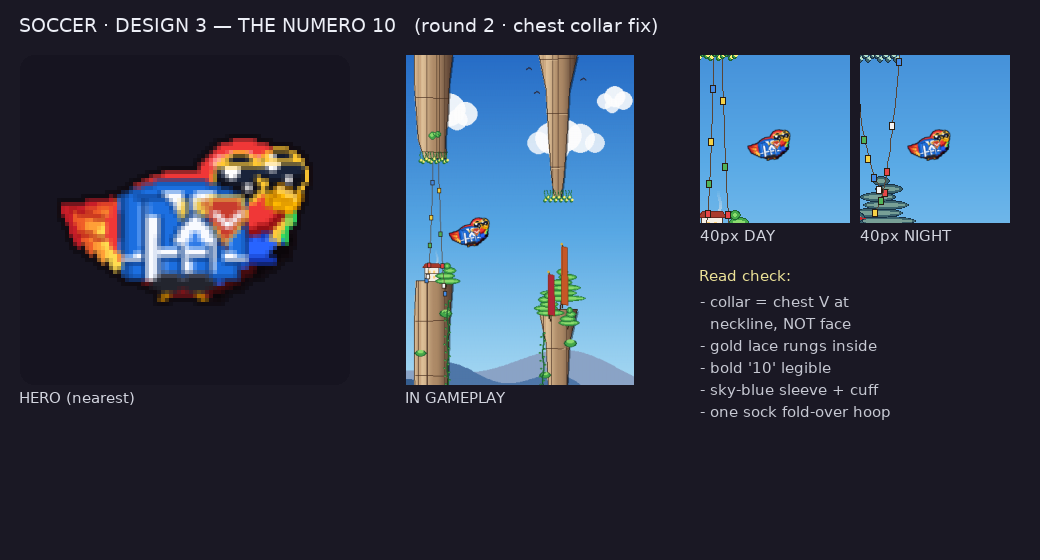
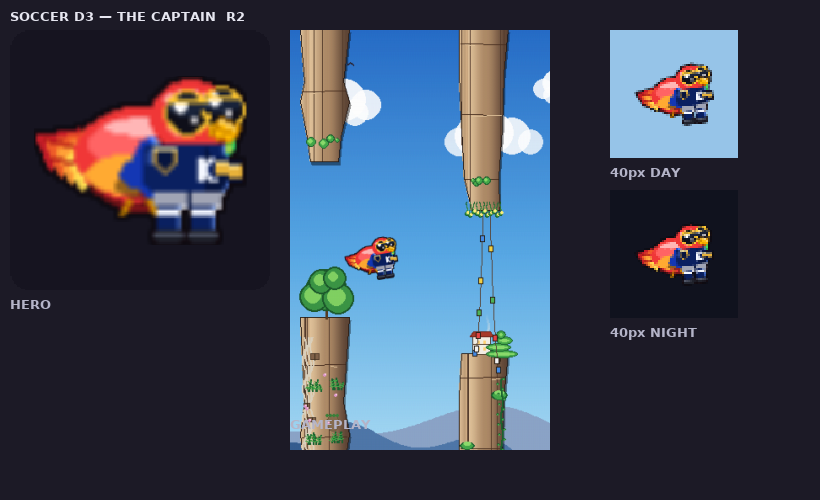
Soccer D3 Captain R2: armband gold+upper, navy rim-light, grey shorts
Claude-Session: https://claude.ai/code/session_01HafGQfRZVDiGkQqpJPr5Cm

diff --git a/tools/soccer_candidates/design_3.py b/tools/soccer_candidates/design_3.py
@@ -2,19 +2,21 @@
 
 Scratch exploration only — NOT registered in store_skins.BUILDERS, so
 production is untouched. Pip the scarlet macaw kitted as the side's captain:
-a classic deep-NAVY jersey with a white V-collar at the chest neckline, a
-white squad NUMBER on the chest, a small gold team CREST on the upper-left
-chest, and — the hero tell — a bright white CAPTAIN'S ARMBAND wrapped around
-the near (forward-right) wing. White shorts hem, tall navy socks with a white
-hoop, and low dark boots finish the kit. No ball, no headgear — the crown
-stays the open macaw so Pip still reads as a parrot, and NOTHING covers the
-beak/eye/face.
+a classic deep-NAVY jersey, a white squad NUMBER on the chest, a small gold
+team CREST left of it, and — the hero tell — a bright GOLD CAPTAIN'S ARMBAND
+high on the near (forward) shoulder. Mid-grey shorts with a white hem, tall
+navy socks with a white hoop, and low dark boots finish the kit. No ball, no
+headgear — the crown stays the open macaw so Pip still reads as a parrot, and
+NOTHING covers the beak/eye/face.
 
 The jersey reuses the EXACT baseball-jersey polygon anchored on HX,HY (top at
 HY+8, hem at HY+23) so the kit sits centred on the torso, never riding up onto
 the face or off to the side. The armband is the one cue that must survive the
-40px downscale: a 4px bright white band on the dark navy sleeve, the single
-brightest mark in the costume, so "captain" reads at hero scale.
+40px downscale: a 4px GOLD band isolated by dark-navy gap pixels high on the
+shoulder, the single brightest, loudest mark in the costume, so "captain"
+reads at hero scale. Pure white is reserved for the number + shorts hem so the
+gold band always wins the eye; a bright navy rim-light keeps the kit from
+dissolving into the night sky.
 """
 import pygame
 
@@ -25,13 +27,14 @@ from game.store_skins import HX, HY, _poly
 # Classic deep-navy kit. Three cloth values so the collar, number and crest
 # still separate from the jersey field after the 40px downscale.
 _CAP_NAVY    = (10, 32, 96)         # #0A2060 jersey deep navy (cloth mid)
-_CAP_NAVY_D  = (6, 20, 62)          # cloth shadow / seams / off-side
+_CAP_NAVY_D  = (6, 20, 62)          # cloth shadow / seams / off-side / band-gap
 _CAP_NAVY_H  = (40, 70, 150)        # shoulder / sleeve sheen
-_CAP_WHITE   = (244, 247, 255)      # #F4F7FF collar / number / armband / shorts
+_CAP_NAVY_RIM= (70, 110, 200)       # bright rim-light so the kit survives night
+_CAP_WHITE   = (244, 247, 255)      # #F4F7FF number / shorts hem (reserved white)
 _CAP_WHITE_D = (200, 210, 232)      # cool white shade so trim reads rounded
-_CAP_GREY    = (208, 212, 222)      # light-grey shorts shade
-_CAP_GOLD    = (236, 198, 78)       # #ECC64E crest shield rim
-_CAP_GOLD_H  = (255, 232, 158)      # crest glint
+_CAP_GREY    = (160, 164, 180)      # #A0A4B4 mid-grey shorts main fill
+_CAP_GOLD    = (232, 178, 58)       # #E8B23A captain's armband band colour
+_CAP_GOLD_H  = (255, 232, 158)      # gold glint / armband sheen
 _CAP_BOOT    = (32, 34, 44)         # #20222C low dark boot
 _CAP_BOOT_H  = (84, 90, 108)        # boot upper highlight
 
@@ -49,55 +52,55 @@ def _paint(surf, _a):
     # Shoulder sheen on the near side so the cloth catches light.
     _poly(surf, _CAP_NAVY_H, [(HX - 12, HY + 9), (HX - 6, HY + 9),
                               (HX - 8, HY + 13), (HX - 13, HY + 13)])
-
-    # --- WHITE V-COLLAR at the chest neckline (on the CHEST, not the face). A
-    #     small open V notch at the jersey top, HY+9..13, well below the head, so
-    #     it can never be mistaken for sunglasses or cover the beak/eye.
-    pygame.draw.line(surf, _CAP_WHITE, (HX - 4, HY + 9), (HX, HY + 13), 2)
-    pygame.draw.line(surf, _CAP_WHITE, (HX + 4, HY + 9), (HX, HY + 13), 2)
-    pygame.draw.line(surf, _CAP_WHITE_D, (HX - 3, HY + 9), (HX, HY + 12), 1)
+    # Bright rim-light down the near/forward jersey edge so the navy torso never
+    # dissolves into a dark night sky — a 1px lit seam reads the silhouette.
+    pygame.draw.line(surf, _CAP_NAVY_RIM, (HX + 9, HY + 8), (HX + 11, HY + 18), 1)
+    pygame.draw.line(surf, _CAP_NAVY_RIM, (HX + 11, HY + 18), (HX + 8, HY + 23), 1)
 
     # --- WHITE SQUAD NUMBER on the chest — a bold "10" reads as a captain's
-    #     number at hero scale. Sits at HY+12..18, right of centre so the crest
-    #     owns the upper-left chest.
-    pygame.draw.line(surf, _CAP_WHITE, (HX + 1, HY + 12), (HX + 1, HY + 18), 2)  # "1"
-    pygame.draw.ellipse(surf, _CAP_WHITE, (HX + 3, HY + 12, 5, 7))               # "0"
-    pygame.draw.ellipse(surf, _CAP_NAVY, (HX + 4, HY + 13, 3, 5))                # "0" hole
+    #     number at hero scale. Nudged RIGHT so a clear navy gap (>=2px) sits
+    #     between it and the crest; pure white is reserved for it + the hem.
+    pygame.draw.line(surf, _CAP_WHITE, (HX + 2, HY + 12), (HX + 2, HY + 18), 2)  # "1"
+    pygame.draw.ellipse(surf, _CAP_WHITE, (HX + 4, HY + 12, 5, 7))               # "0"
+    pygame.draw.ellipse(surf, _CAP_NAVY, (HX + 5, HY + 13, 3, 5))                # "0" hole
 
-    # --- GOLD TEAM CREST on the upper-left chest — a small shield (~8x8) with one
-    #     white slash, drawn around (HX-7, HY+10).
-    cx, cy = HX - 7, HY + 11
+    # --- GOLD TEAM CREST left of the number — ONE small shield blob (~7x7) with a
+    #     navy field so the gold rim pops, nudged LEFT to clear the number. No
+    #     V-collar: the chest carries exactly one crest + one number, nothing else.
+    cx, cy = HX - 8, HY + 12
     shield = [(cx - 3, cy - 3), (cx + 3, cy - 3), (cx + 3, cy + 1),
               (cx, cy + 4), (cx - 3, cy + 1)]
     _poly(surf, _CAP_NAVY_D, shield)                  # crest field (dark, so gold pops)
     pygame.draw.polygon(surf, _CAP_GOLD, shield, 1)   # gold shield outline
-    pygame.draw.line(surf, _CAP_WHITE, (cx - 2, cy + 1), (cx + 2, cy - 2), 1)   # white slash
     pygame.draw.line(surf, _CAP_GOLD_H, (cx - 3, cy - 3), (cx + 3, cy - 3), 1)  # rim glint
 
-    # --- WHITE SHORTS hem just below the jersey hem — a short light band between
-    #     the jersey (HY+23) and the socks so the kit has the shorts read.
-    _poly(surf, _CAP_WHITE, [(HX - 11, HY + 22), (HX + 9, HY + 22),
-                             (HX + 8, HY + 26), (HX - 10, HY + 26)])
-    _poly(surf, _CAP_GREY, [(HX - 1, HY + 22), (HX + 9, HY + 22),
-                            (HX + 8, HY + 26), (HX - 1, HY + 26)])  # off-side shade
+    # --- MID-GREY SHORTS hem just below the jersey hem — grey main fill so the
+    #     shorts recede and never pull focus from the armband; one 1px white hem
+    #     highlight is the only white down here.
+    _poly(surf, _CAP_GREY, [(HX - 11, HY + 22), (HX + 9, HY + 22),
+                            (HX + 8, HY + 26), (HX - 10, HY + 26)])
+    pygame.draw.line(surf, _CAP_WHITE, (HX - 10, HY + 26), (HX + 8, HY + 26), 1)  # white hem
     pygame.draw.line(surf, _CAP_NAVY_D, (HX - 1, HY + 22), (HX - 1, HY + 26), 1)  # leg split
 
     # --- TALL NAVY SOCKS with a white hoop near the top + low dark BOOTS. Two
-    #     sock pillars on the feet line, one white band over each.
+    #     sock pillars on the feet line; a bright rim down the near sock edge keeps
+    #     the legs visible at night, one white band over each.
     for fx in (HX - 10, HX):
         pygame.draw.rect(surf, _CAP_NAVY, (fx, HY + 26, 7, 9))
-        pygame.draw.line(surf, _CAP_NAVY_H, (fx, HY + 26), (fx, HY + 34), 1)
+        pygame.draw.line(surf, _CAP_NAVY_RIM, (fx + 6, HY + 26), (fx + 6, HY + 34), 1)  # rim
         pygame.draw.line(surf, _CAP_WHITE, (fx, HY + 27), (fx + 6, HY + 27), 2)  # white hoop
         pygame.draw.rect(surf, _CAP_BOOT, (fx - 1, HY + 33, 9, 4), border_radius=2)
         pygame.draw.line(surf, _CAP_BOOT_H, (fx - 1, HY + 34), (fx + 7, HY + 34), 1)
 
-    # --- CAPTAIN'S ARMBAND (THE hero tell) — drawn LAST so it sits ON TOP of the
-    #     navy sleeve. A 4px bright-white band wrapped around the near (forward-
-    #     right) wing at HY+18..22. White edges sell it as a band ON the sleeve;
-    #     the gold trim is the single brightest mark so "captain" reads at 40px.
-    pygame.draw.line(surf, _CAP_WHITE_D, (HX + 7, HY + 19), (HX + 14, HY + 21), 5)
-    pygame.draw.line(surf, _CAP_WHITE, (HX + 7, HY + 18), (HX + 14, HY + 20), 4)
-    pygame.draw.line(surf, _CAP_GOLD, (HX + 8, HY + 17), (HX + 14, HY + 19), 1)  # gold trim
+    # --- CAPTAIN'S ARMBAND (THE hero tell) — drawn LAST, high on the near/forward
+    #     SHOULDER at HY+13..15 so it sits alone, well above the number/shorts
+    #     cluster. A 4px GOLD band is the brightest, most isolated mark; dark-navy
+    #     gap pixels above and below cut it off the jersey so it never smears into
+    #     the kit, and a white sheen pixel gives it shine.
+    pygame.draw.line(surf, _CAP_NAVY_D, (HX + 7, HY + 12), (HX + 14, HY + 13), 1)  # top gap
+    pygame.draw.line(surf, _CAP_GOLD,   (HX + 7, HY + 14), (HX + 14, HY + 15), 4)  # gold band
+    pygame.draw.line(surf, _CAP_GOLD_H, (HX + 7, HY + 13), (HX + 13, HY + 14), 1)  # sheen
+    pygame.draw.line(surf, _CAP_NAVY_D, (HX + 7, HY + 17), (HX + 14, HY + 18), 1)  # bottom gap
 
 
 build = store_skins._make_skin(_paint)
